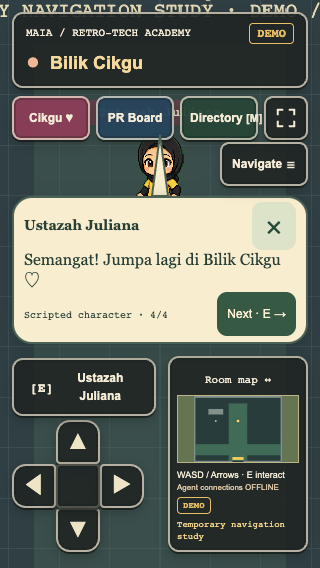
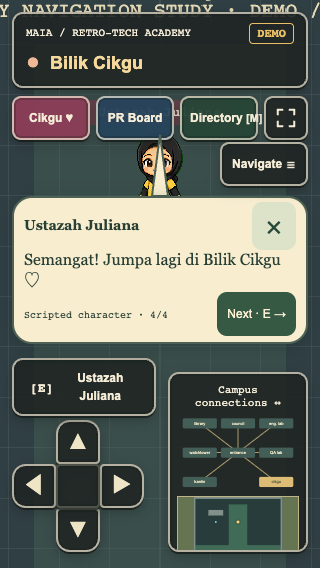
fix(ui): keep chat controls clear with expanded map

Changed region(s): [[0.5, 0.6285, 0.9688, 0.9877], [0.4062, 0.2394, 0.5938, 0.3592]]

diff --git a/tests/e2e/speech.spec.ts b/tests/e2e/speech.spec.ts
@@ -208,6 +208,15 @@ test("320px touch chat keeps movement and interaction controls reachable", async
     name: "Ustazah Juliana speech bubble",
   });
   await expect(bubble).toBeVisible();
+  const graph = page.getByRole("img", {
+    name: "Logical campus connections: entrance links all seven rooms",
+  });
+  const mapToggle = page.getByRole("button", {
+    name: "Show campus connections",
+    exact: true,
+  });
+  await mapToggle.tap();
+  await expect(graph).toBeVisible();
   type Box = NonNullable<Awaited<ReturnType<typeof bubble.boundingBox>>>;
   const overlaps = (a: Box, b: Box) =>
     a.x < b.x + b.width &&
@@ -234,7 +243,36 @@ test("320px touch chat keeps movement and interaction controls reachable", async
         `${name} should remain reachable while ${await activeBubble.getAttribute("aria-label")} is open`,
       ).toBe(false);
     }
+    const mapToggleBox = (await page.locator(".map-toggle").boundingBox())!;
+    expect(
+      overlaps(bubbleBox, mapToggleBox),
+      "the map toggle should remain reachable while speech is open",
+    ).toBe(false);
+    const interaction = (await page
+      .getByRole("button", { name: "Interact", exact: true })
+      .boundingBox())!;
+    const map = (await page
+      .getByRole("complementary", { name: "Campus navigation" })
+      .boundingBox())!;
+    expect(
+      overlaps(interaction, map),
+      "Interact should remain clear of the expanded campus map",
+    ).toBe(false);
+    expect(
+      overlaps(bubbleBox, map),
+      "the open speech bubble should remain clear of the navigation panel",
+    ).toBe(false);
   };
+  await verifyBubbleReachability(bubble);
+  await page.getByRole("button", { name: "Show room map", exact: true }).tap();
+  await expect(graph).not.toBeVisible();
+  await expect(page.locator(".mini-map")).toBeVisible();
+  await verifyBubbleReachability(bubble);
+  await page
+    .getByRole("button", { name: "Show campus connections", exact: true })
+    .tap();
+  await expect(graph).toBeVisible();
+  await verifyBubbleReachability(bubble);
   for (let line = 0; line < teacher.dialogue.length; line++) {
     await expect(bubble).toContainText(teacher.dialogue[line]);
     await verifyBubbleReachability(bubble);

diff --git a/apps/public-web/src/style.css b/apps/public-web/src/style.css
@@ -782,6 +782,13 @@ blockquote {
   .game-stage:has(.campus-graph) .interaction-hint {
     bottom: calc(max(16px, env(safe-area-inset-bottom)) + 290px);
   }
+  .game-stage:has(.campus-graph):has(.speech-bubble) .interaction-hint {
+    bottom: calc(max(16px, env(safe-area-inset-bottom)) + 136px);
+  }
+  .game-stage:has(.speech-bubble) .minimap-panel {
+    max-height: 180px;
+    overflow-y: auto;
+  }
 }
 .speech-tail {
   position: absolute;

diff --git a/docs/navigation/runtime.md b/docs/navigation/runtime.md
@@ -14,7 +14,7 @@ Collision diagnostics are a normal visible user tool. Pink outlines show authori
 
 The runtime imports the eight generated Tiled JSON files through `importScene`; scene bounds and solids are not duplicated in game code. `RoomView` owns disposable room objects/colliders; `CameraRig` owns camera gestures; `Campus` owns the persistent player, input, transition lock and DEMO registry; React owns accessible controls, board/directory pause and focus, and camera-space speech bubbles. Conversations, fixture text and welcome text never open a modal or trap focus. Speech closes when the visitor moves away or changes rooms. Media/input/resize listeners register once and are removed on shutdown. Entrance texture filtering is linear; sprite sheets use nearest filtering.
 
-At 320×568, mobile speech bubbles compact the text area and allow longer welcome copy to scroll while keeping the 44px chat buttons clear of Interact and the movement D-pad. A touch browser case advances all four teacher lines using both Interact and Next, walks during the open bubble, closes it, and checks the welcome bubble bounds. The captured final teacher line is `evidence/teacher-chat-mobile-320.png`.
+At 320×568, mobile speech bubbles compact the text area and allow longer welcome copy to scroll while keeping the 44px chat buttons clear of Interact and the movement D-pad. When the campus graph is open during a conversation, Interact returns to the lower-left lane and the navigation panel scrolls within a 180px maximum height, so the bubble, map toggle, graph or room map, and movement controls stay reachable. A touch browser case advances all four teacher lines using both Interact and Next, toggles between the graph and room map during speech, walks during the open bubble, closes it, and checks the welcome bubble bounds. The captured final teacher line with the campus graph open is `evidence/teacher-chat-mobile-320.png`.
 
 Browser route tests use only ordinary key events and genuine Chromium touch input through the controls. A test-side cardinal planner uses the authoritative clearance model with an additional three-unit margin; it never writes a body position or calls a private game bridge. Every segment observes the rendered minimap position and fails with coordinates if stalled. Key release waits six rendered animation frames plus a fresh report; near-target corrections hold for a single rendered frame and final convergence checks both axes without relaxing the five-unit destination bound. Directory tests are separate from portal traversal. Long traversal tests disable per-frame traces to avoid distorting measurements; named screenshots, observed positions and exact results provide their evidence.
 
